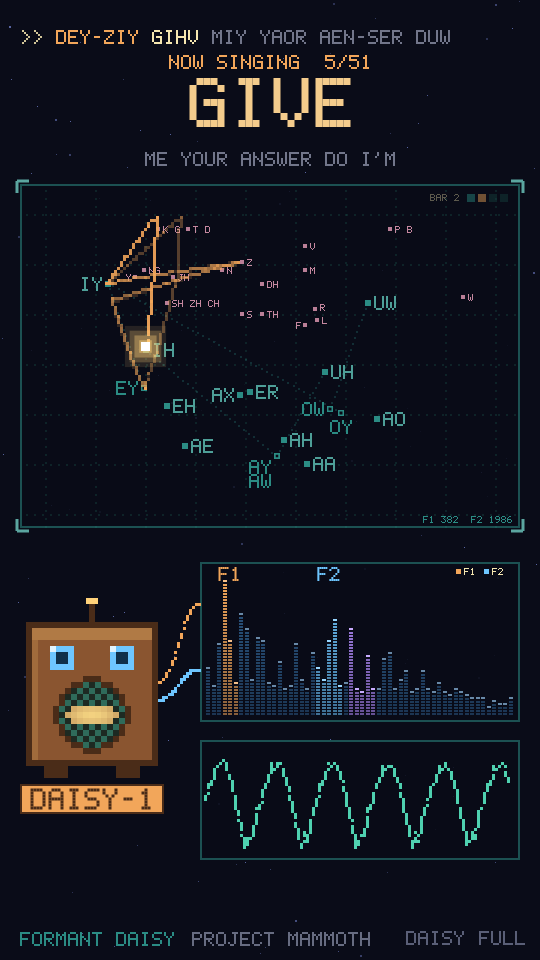
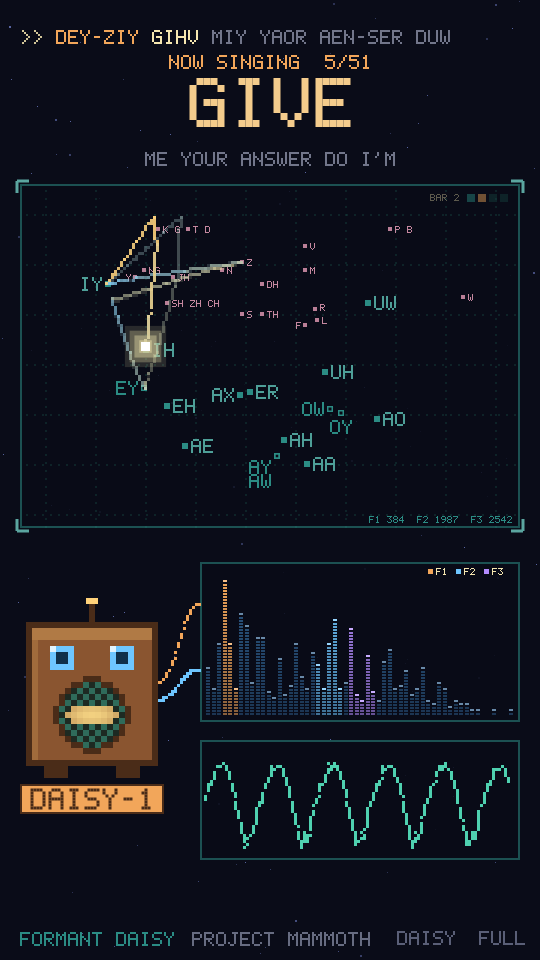
Formant Daisy 0.13.0

diff --git a/Source/PluginEditor.cpp b/Source/PluginEditor.cpp
@@ -35,8 +35,32 @@ void Palette::applyTheme (int id)
         { 0xff12051f, 0xff1b0a2c, 0xffb5179e, 0xff4a1050, 0xff2de2e6, 0xfff7f0ff, 0xffff6ad5, 0xff2de2e6, 0xff3a2a7a,
           0xfffdd23e, 0xffff9e64, 0xff4a2a6a, 0xff3a2a7a, 0xff1f1440, 0xff6a4ac0, 0xffc77dff, 0xffff6ad5, 0xffffd1f4,
           0xff1f0f30, 0xff4a2a8a, 0xff12051f, 0xffffffff },
+        // Hazy Vaporwave: 4C265F F20775 0678BF 07598C 079DD9
+        { 0xff170b1f, 0xff21102d, 0xff0678bf, 0xff0a2f4a, 0xff079dd9, 0xfff3e6f5, 0xfff20775, 0xff079dd9, 0xff07598c,
+          0xff9b6fc0, 0xffff7fb8, 0xff6a4a85, 0xff4c265f, 0xff2b1538, 0xff6e3f8a, 0xff5a7ec9, 0xfff6e7ff, 0xffffd1ea,
+          0xff1a0d24, 0xff07598c, 0xff170b1f, 0xffffffff },
+        // Neutral Palette 2: 548D95 76C1C3 AE7F21 F0AE44 789342 B4DB6F
+        { 0xff111a1b, 0xff172426, 0xff548d95, 0xff2a474b, 0xff76c1c3, 0xffeef3e0, 0xfff0ae44, 0xff76c1c3, 0xff3d6a70,
+          0xffb4db6f, 0xffcf9a35, 0xff55706f, 0xff789342, 0xff45552a, 0xff9bb35e, 0xff5f9799, 0xfff3f0d0, 0xffffd27a,
+          0xff172426, 0xff548d95, 0xff111a1b, 0xffffffff },
+        // Happy Feet: ED1F2F 0DC8DB 52D932 FFC729 FF8008
+        { 0xff101418, 0xff171c22, 0xff0a8f9e, 0xff0b4a52, 0xff0dc8db, 0xfffff4d6, 0xffff8008, 0xff0dc8db, 0xff0a6b78,
+          0xff52d932, 0xffff5a66, 0xff4d5966, 0xffed1f2f, 0xff8a1019, 0xffff5a66, 0xff5ac8d5, 0xffffc729, 0xffffe08a,
+          0xff1a1f26, 0xff2f8a1c, 0xff101418, 0xffffffff },
+        // Tam & Zpet: 414142 DDB826 D7D7D7 A4AF84 DDDCBE
+        { 0xff1c1c1d, 0xff262627, 0xff8a9370, 0xff4a4f3c, 0xffdddcbe, 0xffdddcbe, 0xffddb826, 0xffa4af84, 0xff55594a,
+          0xffd7d7d7, 0xffe6cf6a, 0xff5e5e5f, 0xff5a5a5b, 0xff2e2e2f, 0xff7a7a7b, 0xff8a8a8b, 0xffd7d7d7, 0xffdddcbe,
+          0xff1c1c1d, 0xff4a4f3c, 0xff1c1c1d, 0xffffffff },
+        // A House of Bees: D6AA58 A9CDD4 E1EBF0 FFFFFF 477A91
+        { 0xff0f1a20, 0xff16252d, 0xff477a91, 0xff223c48, 0xffa9cdd4, 0xffe1ebf0, 0xfff0c470, 0xff6fb0cc, 0xff2f5566,
+          0xffffffff, 0xffd6aa58, 0xff4f6a77, 0xffd6aa58, 0xff8c6a2c, 0xffeac584, 0xff7fa3ab, 0xffe1ebf0, 0xffffffff,
+          0xff16252d, 0xff477a91, 0xff0f1a20, 0xffffffff },
+        // Sports Day: 913F4E CEEAE7 6287A2 FEFFF2 170901
+        { 0xff170901, 0xff22100a, 0xff6287a2, 0xff2c3d4a, 0xffceeae7, 0xfffefff2, 0xffc85a6c, 0xff8fd6cf, 0xff3e5568,
+          0xff8fb0c8, 0xffd9707f, 0xff5a4440, 0xff913f4e, 0xff4f1f29, 0xffb9606f, 0xff6287a2, 0xfffefff2, 0xfffefff2,
+          0xff1f0e08, 0xff3e5568, 0xff170901, 0xffffffff },
     };
-    const T& t = themes[jlimit (0, 3, id)];
+    const T& t = themes[jlimit (0, (int) (sizeof (themes) / sizeof (themes[0])) - 1, id)];
     bg = Colour (t.bg); panel = Colour (t.panel); teal = Colour (t.teal); tealDim = Colour (t.tealDim);
     tealBright = Colour (t.tealBright); cream = Colour (t.cream); orange = Colour (t.orange); blue = Colour (t.blue);
     blueDim = Colour (t.blueDim); lavender = Colour (t.lavender); pink = Colour (t.pink); dim = Colour (t.dim);
@@ -83,7 +107,9 @@ void PixelButton::paint (Graphics& g)
     if (subtle && ! hover && ! down)
     {
         const String t = getText ? getText() : String();
-        PixelFont::drawCentred (g, t, getLocalBounds().toFloat(), 2.0f, Palette::dim.brighter (0.2f));
+        float ts = 2.0f;
+        while (ts > 1.0f && PixelFont::width (t, ts) > (float) getWidth() - 4.0f) ts -= 0.5f;
+        PixelFont::drawCentred (g, t, getLocalBounds().toFloat(), ts, Palette::dim.brighter (0.2f));
         return;
     }
     auto r = getLocalBounds().toFloat();
@@ -210,7 +236,7 @@ FormantDaisyEditor::FormantDaisyEditor (FormantDaisyProcessor& p)
     viewBtn.subtle = true;
     addAndMakeVisible (viewBtn);
 
-    static const char* themeNames[] = { "DAISY", "AMBER", "POCKET", "SYNTH" };
+    static const char* themeNames[] = { "DAISY", "AMBER", "POCKET", "SYNTH", "HAZY", "NEUTRAL", "HAPPY", "TAM", "BEES", "SPORTS" };
     themeBtn.getText = [this] { return String ("COLOR: ") + themeNames[jlimit (0, numThemes - 1, themeId)]; };
     themeBtn.onClick = [this] { setTheme ((themeId + 1) % numThemes); };
     themeBtn.subtle = true;
@@ -322,8 +348,8 @@ void FormantDaisyEditor::resized()
         robotScale = 6.0f;
         robotPos = { 26, 604 };
         viewBtn.setBounds (kCompactW - 64, kCompactH - 34, 52, 24);
-        themeBtn.setBounds (kCompactW - 64 - 6 - 70, kCompactH - 34, 70, 24);
-        themeBtn.getText = [this] { static const char* n[] = { "DAISY", "AMBER", "POCKET", "SYNTH" };
+        themeBtn.setBounds (kCompactW - 64 - 4 - 92, kCompactH - 34, 92, 24);
+        themeBtn.getText = [this] { static const char* n[] = { "DAISY", "AMBER", "POCKET", "SYNTH", "HAZY", "NEUTRAL", "HAPPY", "TAM", "BEES", "SPORTS" };
                                     return String (n[jlimit (0, numThemes - 1, themeId)]); };
         return;
     }
@@ -336,7 +362,7 @@ void FormantDaisyEditor::resized()
     robotPos = { 34, 416 };
     viewBtn.setBounds (568, kHeight - 30, 56, 24);
     themeBtn.setBounds (630, kHeight - 30, 170, 24);
-    themeBtn.getText = [this] { static const char* n[] = { "DAISY", "AMBER", "POCKET", "SYNTH" };
+    themeBtn.getText = [this] { static const char* n[] = { "DAISY", "AMBER", "POCKET", "SYNTH", "HAZY", "NEUTRAL", "HAPPY", "TAM", "BEES", "SPORTS" };
                                 return String ("COLOR: ") + n[jlimit (0, numThemes - 1, themeId)]; };
 
     const int x = 568, w = 388;
@@ -397,7 +423,7 @@ void FormantDaisyEditor::timerCallback()
     const float v = s.vizVoicing.load();
     // divide out the Formant knob so a smaller/larger voice still lines up with the vowel map
     const float shift = jmax (0.1f, proc.apvts.getRawParameterValue ("formant")->load());
-    trail.push_back ({ s.vizF1.load() / shift, s.vizF2.load() / shift, v });
+    trail.push_back ({ s.vizF1.load() / shift, s.vizF2.load() / shift, s.vizF3.load() / shift, v });
     while (trail.size() > 75) trail.pop_front();
 
     // robot blinks once per rest
@@ -688,6 +714,56 @@ void FormantDaisyEditor::drawLinePhonemes (Graphics& g, Rectangle<float> area, i
     }
 }
 
+// F3 colour for the compact view: low F3 (R, ER) = pink, normal = warm glow, high = blue
+Colour FormantDaisyEditor::f3Colour (float f3)
+{
+    const float t = jlimit (0.0f, 1.0f, (f3 - 1400.0f) / (3100.0f - 1400.0f));
+    return t < 0.55f ? Palette::pink.interpolatedWith (Palette::glow, t / 0.55f)
+                     : Palette::glow.interpolatedWith (Palette::blue, (t - 0.55f) / 0.45f);
+}
+
+// Noise static: consonant hiss drawn as a cloud of sparkles around the moving dot.
+// Size = how spread out the noise is (S tight, F and TH wide), density = loudness,
+// colour = noise pitch (high hiss whiter, low hiss pinker). H is a faint lavender haze.
+void FormantDaisyEditor::drawNoiseCloud (Graphics& g, Point<float> centre)
+{
+    auto& s = proc.getSinger();
+    const float fric = s.vizFric.load(), asp = s.vizAsp.load();
+    if (fric < 0.03f && asp < 0.03f) return;
+    Random r ((int64) frame * 7919);
+    auto spray = [&] (float radius, float level, Colour c)
+    {
+        const int count = (int) (level * 60.0f);
+        for (int i = 0; i < count; ++i)
+        {
+            // roughly normal spread around the dot
+            const float gx = (r.nextFloat() + r.nextFloat() + r.nextFloat() - 1.5f) / 1.5f;
+            const float gy = (r.nextFloat() + r.nextFloat() + r.nextFloat() - 1.5f) / 1.5f;
+            const float sz = r.nextFloat() < 0.25f ? 3.0f : 2.0f;
+            g.setColour (c.withAlpha (jlimit (0.2f, 1.0f, level * (0.6f + 0.4f * r.nextFloat()))));
+            g.fillRect (std::round (centre.x + gx * radius), std::round (centre.y + gy * radius), sz, sz);
+        }
+    };
+    if (asp > 0.03f)
+        spray (22.0f, asp * 0.7f, Palette::lavender);
+    if (fric > 0.03f)
+    {
+        const float hz = s.vizFricHz.load();
+        const float t = jlimit (0.0f, 1.0f, std::log (hz / 1500.0f) / std::log (7000.0f / 1500.0f));
+        const float radius = 8.0f + 12.0f * s.vizFricSpread.load();
+        spray (radius, fric, Palette::pink.interpolatedWith (Palette::white, t * 0.7f));
+        // name the hiss while it sounds
+        const int ph = s.vizPhoneme.load();
+        const auto kind = fd::phoneme (ph).kind;
+        const bool noisy = kind != fd::Kind::Silence && kind != fd::Kind::Vowel && kind != fd::Kind::Diphthong
+                           && kind != fd::Kind::Nasal && kind != fd::Kind::Liquid && kind != fd::Kind::Glide;
+        const String name = String (fd::phoneme (ph).name).toUpperCase();
+        if (noisy && name.isNotEmpty())
+            PixelFont::draw (g, name, std::round (centre.x - PixelFont::width (name, 2.0f) * 0.5f),
+                             std::round (centre.y - radius - 22), 2.0f, Palette::white);
+    }
+}
+
 void FormantDaisyEditor::drawVowelChart (Graphics& g, Rectangle<float> a)
 {
     g.setColour (Palette::bg.withAlpha (0.85f));
@@ -737,19 +813,7 @@ void FormantDaisyEditor::drawVowelChart (Graphics& g, Rectangle<float> a)
         PixelFont::draw (g, c.label, std::round (p.x + lx), std::round (p.y + c.ly), 1.0f, Palette::pink.withAlpha (0.8f));
     }
 
-    // diphthongs: faint dotted glide to their end target, hollow marker at the start
-    for (auto& m : diph)
-    {
-        const auto& d = fd::phoneme (fd::findPhoneme (m.ph));
-        const auto p0 = P (m.ph), p1 = P (d.offglide);
-        g.setColour (Palette::teal.withAlpha (0.28f));
-        const int steps = jmax (1, (int) (p0.getDistanceFrom (p1) / 6.0f));
-        for (int i = 1; i < steps; ++i)
-        {
-            const auto q = p0 + (p1 - p0) * ((float) i / (float) steps);
-            g.fillRect (std::round (q.x) - 1, std::round (q.y) - 1, 2.0f, 2.0f);
-        }
-    }
+    // diphthongs: hollow marker at the start
     for (auto& m : diph)
     {
         const auto p = P (m.ph);
@@ -773,7 +837,8 @@ void FormantDaisyEditor::drawVowelChart (Graphics& g, Rectangle<float> a)
         const auto& p1 = trail[(size_t) i];
         if (p0.v < 0.05f || p1.v < 0.05f) continue;
         const float age = (float) i / (float) n;
-        g.setColour (Palette::orange.withAlpha (0.15f + 0.85f * age * age));
+        const Colour tc = f3Colour (p1.f3);
+        g.setColour (tc.withAlpha (0.15f + 0.85f * age * age));
         pixelLine (g, chartPoint (p0.f1, p0.f2, a), chartPoint (p1.f1, p1.f2, a), kPx);
     }
 
@@ -789,20 +854,14 @@ void FormantDaisyEditor::drawVowelChart (Graphics& g, Rectangle<float> a)
         for (int ring = 4; ring >= 1; --ring)
         {
             const float r = (float) ring * kPx * 1.6f * pulse;
-            g.setColour (Palette::glow.withAlpha (0.12f * (5 - ring) * jmin (1.0f, v * 1.5f)));
+            const Colour glowC = f3Colour (s.vizF3.load() / shift);
+            g.setColour (glowC.withAlpha (0.16f * (5 - ring) * jmin (1.0f, v * 1.5f)));
             g.fillRect (cx - r, cy - r, r * 2 + kPx, r * 2 + kPx);
         }
         g.setColour (Palette::white.withAlpha (jmin (1.0f, v * 1.5f)));
         g.fillRect (cx - kPx, cy - kPx, kPx * 3, kPx * 3);
     }
-    else if (s.vizNoise.load() > 0.05f)
-    {
-        // unvoiced: hiss sparkles
-        Random r ((int64) frame);
-        g.setColour (Palette::pink.withAlpha (0.7f));
-        for (int i = 0; i < 6; ++i)
-            g.fillRect (pt.x + r.nextFloat() * 24 - 12, pt.y + r.nextFloat() * 24 - 12, 2.0f, 2.0f);
-    }
+    drawNoiseCloud (g, pt);
 
     // bar / beat indicator (top right): one box per beat, the current one lit.
     // While a line break waits for the next bar it shows WAIT.
@@ -836,7 +895,9 @@ void FormantDaisyEditor::drawVowelChart (Graphics& g, Rectangle<float> a)
     }
 
     // readout
-    const String rd = "F1 " + String (roundToInt (s.vizF1.load())) + "  F2 " + String (roundToInt (s.vizF2.load()));
+
+    const String rd = "F1 " + String (roundToInt (s.vizF1.load())) + "  F2 " + String (roundToInt (s.vizF2.load()))
+                      + "  F3 " + String (roundToInt (s.vizF3.load()));
     PixelFont::draw (g, rd, a.getRight() - PixelFont::width (rd, 1.0f) - 8, a.getBottom() - 12, 1.0f, Palette::teal);
 }
 
@@ -901,21 +962,17 @@ void FormantDaisyEditor::drawSpectrum (Graphics& g, Rectangle<float> a)
         }
     }
 
-    // floating formant labels above their peaks
-    auto label = [&] (const char* txt, float hz, Colour c) {
-        if (hz > maxHz || s.vizVoicing.load() < 0.05f) return;
-        const float x = inner.getX() + hz / maxHz * inner.getWidth();
-        PixelFont::draw (g, txt, jlimit (a.getX() + 4, a.getRight() - 30, x - 11), a.getY() + 5, 2.0f, c);
-    };
-    label ("F1", f1, Palette::orange);
-    label ("F2", f2, Palette::blue);
 
     // legend
     const String sq = String::charToString ((juce_wchar) 3);
-    PixelFont::draw (g, sq, a.getRight() - 64, a.getY() + 6, 1.0f, Palette::orange);
-    PixelFont::draw (g, "F1", a.getRight() - 56, a.getY() + 6, 1.0f, Palette::cream);
-    PixelFont::draw (g, sq, a.getRight() - 36, a.getY() + 6, 1.0f, Palette::blue);
-    PixelFont::draw (g, "F2", a.getRight() - 28, a.getY() + 6, 1.0f, Palette::cream);
+    const std::pair<const char*, Colour> keys[] = { { "F1", Palette::orange }, { "F2", Palette::blue }, { "F3", Palette::lavender } };
+    float kx = a.getRight() - 92;
+    for (auto& [txt, col] : keys)
+    {
+        PixelFont::draw (g, sq, kx, a.getY() + 6, 1.0f, col);
+        PixelFont::draw (g, txt, kx + 8, a.getY() + 6, 1.0f, Palette::cream);
+        kx += 28;
+    }
 }
 
 void FormantDaisyEditor::drawWaveform (Graphics& g, Rectangle<float> a)

diff --git a/Source/PluginEditor.h b/Source/PluginEditor.h
@@ -30,7 +30,8 @@ inline juce::Colour grilleLight { 0xff2f6b5a };
 inline juce::Colour pupil { 0xff10304a };
 inline juce::Colour white { 0xffffffff };
 
-// 0 = Daisy (default), 1 = Amber Terminal, 2 = Pocket Green, 3 = Synthwave
+// 0 Daisy (default), 1 Amber Terminal, 2 Pocket Green, 3 Synthwave, 4 Hazy Vaporwave,
+// 5 Neutral, 6 Happy Feet, 7 Tam & Zpet, 8 A House of Bees, 9 Sports Day
 void applyTheme (int id);
 } // namespace Palette
 
@@ -83,7 +84,7 @@ public:
     void setShowHelp (bool show) { showHelp = show; repaint(); }
     void mouseDown (const juce::MouseEvent&) override;
     void mouseMove (const juce::MouseEvent&) override;
-    static constexpr int numRobots = 11, numThemes = 4;
+    static constexpr int numRobots = 11, numThemes = 10;
     void resized() override;
 
 private:
@@ -94,6 +95,8 @@ private:
     void drawBackground (juce::Graphics&);
     void drawTitle (juce::Graphics&);
     void drawVowelChart (juce::Graphics&, juce::Rectangle<float>);
+    void drawNoiseCloud (juce::Graphics&, juce::Point<float> centre); // hiss around the dot
+    static juce::Colour f3Colour (float f3); // dot and trail colour from F3
     void drawLinePhonemes (juce::Graphics&, juce::Rectangle<float>, int posIdx);
     void drawSpectrum (juce::Graphics&, juce::Rectangle<float>);
     void drawWaveform (juce::Graphics&, juce::Rectangle<float>);
@@ -121,7 +124,7 @@ private:
     std::vector<std::unique_ptr<Knob>> knobs;
 
     // visual state
-    struct TrailPt { float f1, f2, v; };
+    struct TrailPt { float f1, f2, f3, v; };
     std::deque<TrailPt> trail;
     std::deque<juce::String> ticker;
     int lastRestCount = 0, blinkFrames = 0, pendingBlinks = 0; // robot blinks once per rest

diff --git a/Source/engine/FormantSinger.cpp b/Source/engine/FormantSinger.cpp
@@ -711,6 +711,19 @@ void FormantSinger::updateControl()
     vizF3.store (cur.F[2] * (float) shift);
     vizVoicing.store (cur.av * velGain);
     vizNoise.store (std::max (cur.af, cur.ah));
+    // noise shape of the consonant being made (its target, so the display doesn't
+    // slide through in-between frequencies); held while the hiss fades out
+    if (t.af > 0.01f)
+    {
+        const float w1 = t.fr1a + 1.0e-4f, w2 = t.fr2a;
+        const float centre = (t.fr1f * w1 + t.fr2f * w2) / (w1 + w2);
+        // wide bandwidths and the flat bypass path spread the hiss out
+        const float bwOct = (t.fr1b / std::max (100.0f, t.fr1f)) * 1.4f + t.byp * 6.0f;
+        vizFricHz.store (centre * (float) shift);
+        vizFricSpread.store (std::clamp (bwOct, 0.2f, 2.5f));
+    }
+    vizFric.store (cur.af);
+    vizAsp.store (cur.ah);
     vizPhoneme.store (seg.ph);
 }
 

diff --git a/Source/engine/FormantSinger.h b/Source/engine/FormantSinger.h
@@ -69,6 +69,9 @@ public:
     // Visualisation (read from the UI thread)
     std::atomic<float> vizF1 { 500 }, vizF2 { 1500 }, vizF3 { 2500 };
     std::atomic<float> vizVoicing { 0 }, vizNoise { 0 }, vizLevel { 0 };
+    // consonant noise for the display: frication level, aspiration level,
+    // centre frequency of the frication (Hz) and its spread (octaves)
+    std::atomic<float> vizFric { 0 }, vizAsp { 0 }, vizFricHz { 4000 }, vizFricSpread { 1 };
     std::atomic<int> vizSyllable { -1 }, vizPhoneme { 0 };
     std::atomic<int> vizRestCount { 0 };
     std::atomic<bool> vizWaiting { false }; // paused at a line break until the next bar // increments every time a rest is consumed

diff --git a/CHANGELOG.md b/CHANGELOG.md
@@ -2,6 +2,19 @@
 
 The minor version goes up with every change. Tag `vX.Y.Z` to publish a release.
 
+## 0.13.0
+
+- Six new color schemes: HAZY, NEUTRAL, HAPPY, TAM, BEES and SPORTS (ten in total).
+- The compact view's COLOR button fits longer names.
+
+## 0.12.0
+
+- The chart's dot and trail are colored by F3 in both views (pink = low, warm = normal, blue = high).
+- Consonant hiss is shown as static around the moving dot, sized by the noise spread and tinted by its pitch, with the consonant's name above it.
+- Removed the dotted glide lines between phonemes.
+- Spectrum: removed the moving F1/F2 labels and added F3 to the key.
+- The F1/F2/F3 readout shows F3.
+
 ## 0.11.0
 
 First tagged release.
